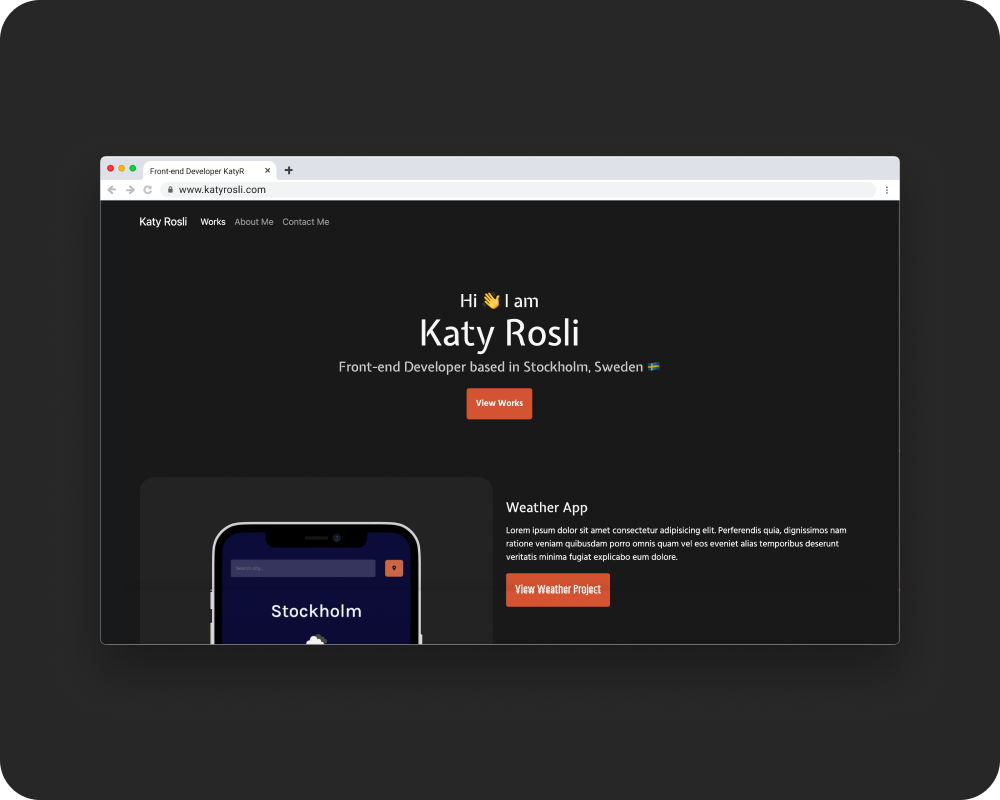
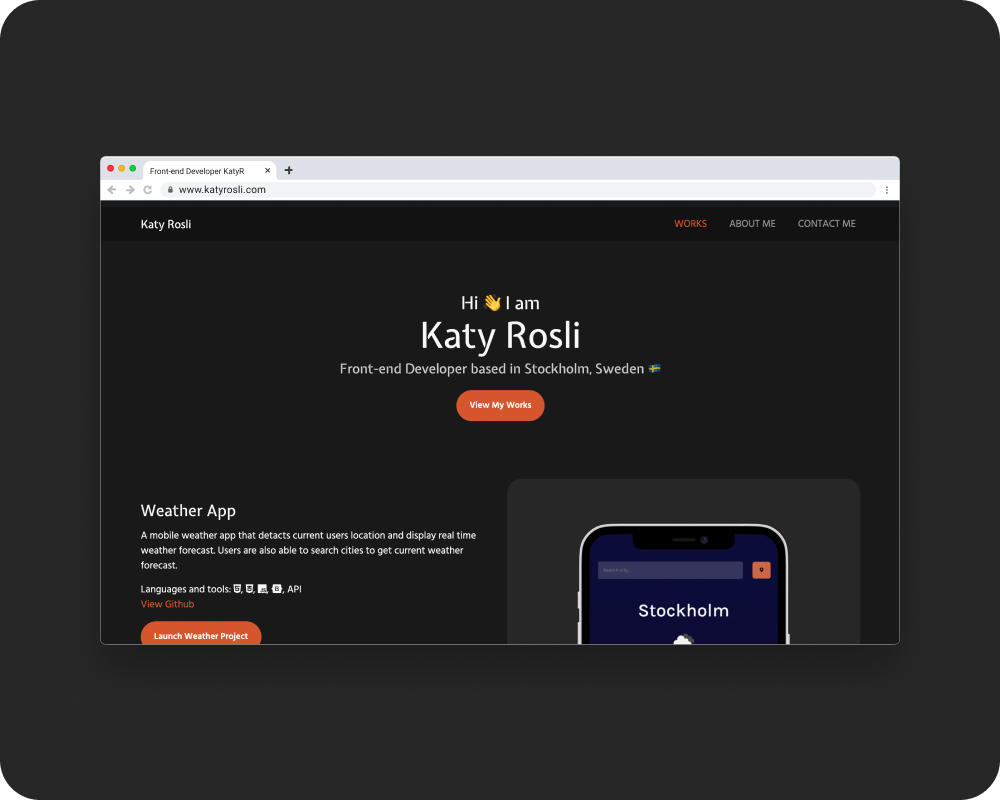
edited button style on css

diff --git a/styles/portfolio.css b/styles/portfolio.css
@@ -72,10 +72,13 @@ li.nav-item {
   margin: 0 auto;
   margin-top: 24px;
   margin-bottom: 80px;
-  padding: 16px;
+  padding-top: 16px;
+  padding-bottom: 16px;
+  padding-left: 24px;
+  padding-right: 24px;
   background: var(--branding-color);
-  color: var(--secondary-color);
   border: none;
+  border-radius: 40px;
   transition: 0.15s ease-in-out;
 }
 
@@ -119,12 +122,15 @@ h4 {
 }
 
 .project-link {
-  padding: 18px;
+  padding-top: 16px;
+  padding-bottom: 16px;
+  padding-left: 24px;
+  padding-right: 24px;
   font-family: var(--body-font);
   font-weight: 600;
   background: var(--branding-color);
-  color: var(--secondary-color);
   border: none;
+  border-radius: 40px;
   transition: 0.15s ease-in-out;
 }
 
@@ -134,11 +140,14 @@ h4 {
 }
 
 .contact-link {
-  padding: 18px;
+  padding-top: 16px;
+  padding-bottom: 16px;
+  padding-left: 24px;
+  padding-right: 24px;
   font-family: var(--body-font);
   font-weight: 600;
   border-color: var(--branding-color);
-  color: var(--branding-color);
+  border-radius: 40px;
   transition: 0.15s ease-in-out;
   margin-right: 40px;
   margin-left: 40px;
